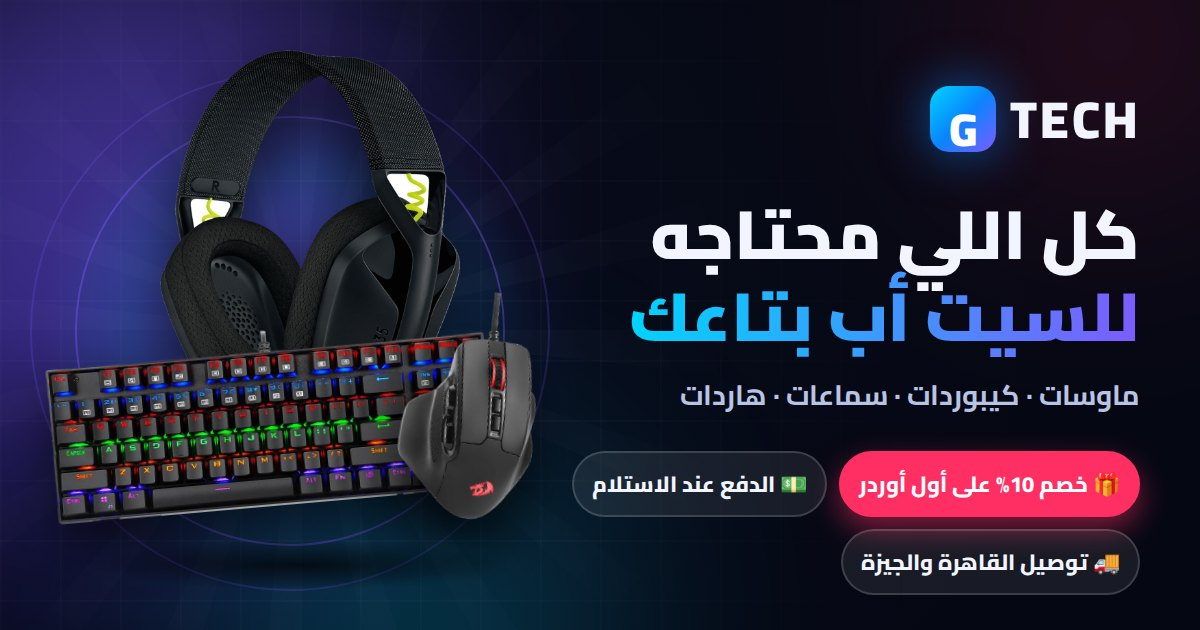
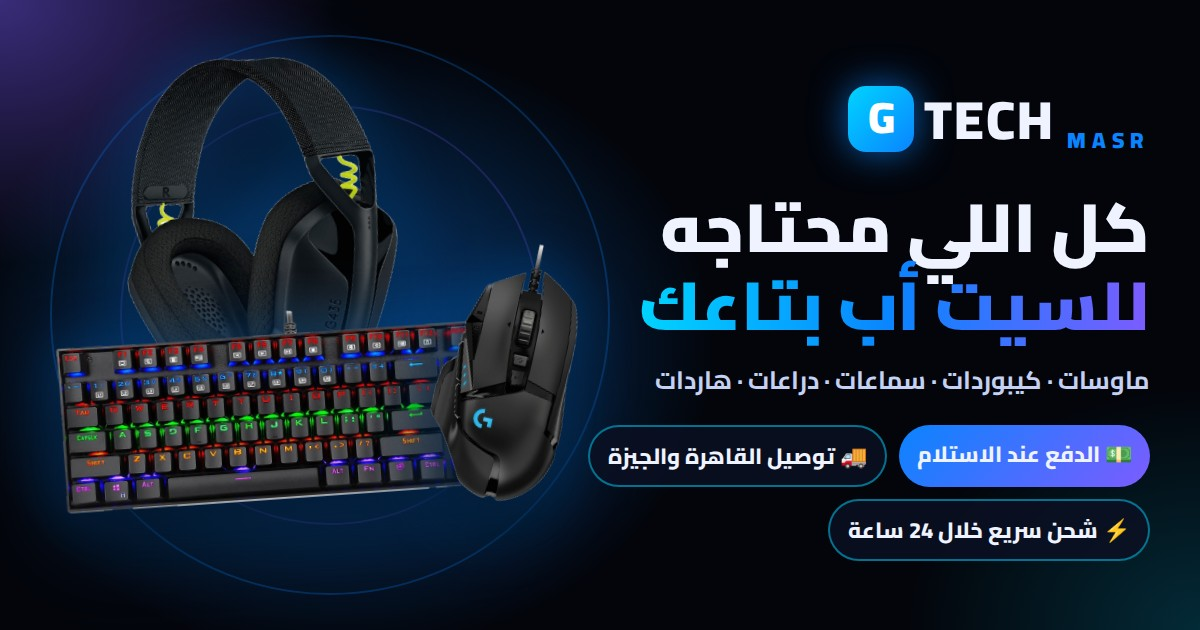
New share image (og-cover v3) for GTECH MASR
No first-order code or free-shipping claims; COD, Cairo/Giza delivery
and 24h express instead. Cache-busting query bumped to ?v=3.

Claude-Session: https://claude.ai/code/session_01FgqBvfcW34AtYe7xydj2je

diff --git a/index.html b/index.html
@@ -15,12 +15,12 @@
   <meta property="og:title" content="GTECH MASR | كل اللي محتاجه للسيت أب بتاعك 🎮" />
   <meta property="og:description" content="GTECH MASR متجر إلكترونيات في مصر: ماوسات وكيبوردات وسماعات جيمنج وإكسسوارات كمبيوتر أصلية بأفضل الأسعار. توصيل القاهرة والجيزة والدفع عند الاستلام." />
   <meta property="og:url" content="https://ziadzakaria-creator.github.io/GTECH/" />
-  <meta property="og:image" content="https://ziadzakaria-creator.github.io/GTECH/images/og-cover.jpg?v=2" />
+  <meta property="og:image" content="https://ziadzakaria-creator.github.io/GTECH/images/og-cover.jpg?v=3" />
   <meta property="og:image:width" content="1200" />
   <meta property="og:image:height" content="630" />
   <meta property="og:image:alt" content="GTECH MASR — ماوسات وكيبوردات وسماعات جيمنج، توصيل القاهرة والجيزة والدفع عند الاستلام" />
   <meta name="twitter:card" content="summary_large_image" />
-  <meta name="twitter:image" content="https://ziadzakaria-creator.github.io/GTECH/images/og-cover.jpg?v=2" />
+  <meta name="twitter:image" content="https://ziadzakaria-creator.github.io/GTECH/images/og-cover.jpg?v=3" />
   <script type="application/ld+json">{"@context": "https://schema.org", "@type": "OnlineStore", "name": "GTECH MASR", "url": "https://ziadzakaria-creator.github.io/GTECH/", "logo": "https://ziadzakaria-creator.github.io/GTECH/icons/icon-512.png", "telephone": "+201100053123", "address": {"@type": "PostalAddress", "addressLocality": "القاهرة", "addressCountry": "EG"}, "sameAs": ["https://www.facebook.com/profile.php?id=61582595856275", "https://www.tiktok.com/@ziadzkariaebrahim"]}</script>
   <script type="application/ld+json">{"@context": "https://schema.org", "@type": "WebSite", "name": "GTECH MASR", "url": "https://ziadzakaria-creator.github.io/GTECH/", "inLanguage": "ar", "potentialAction": {"@type": "SearchAction", "target": "https://ziadzakaria-creator.github.io/GTECH/?q={search_term_string}#products", "query-input": "required name=search_term_string"}}</script>
   <link rel="preconnect" href="https://fonts.googleapis.com" />
